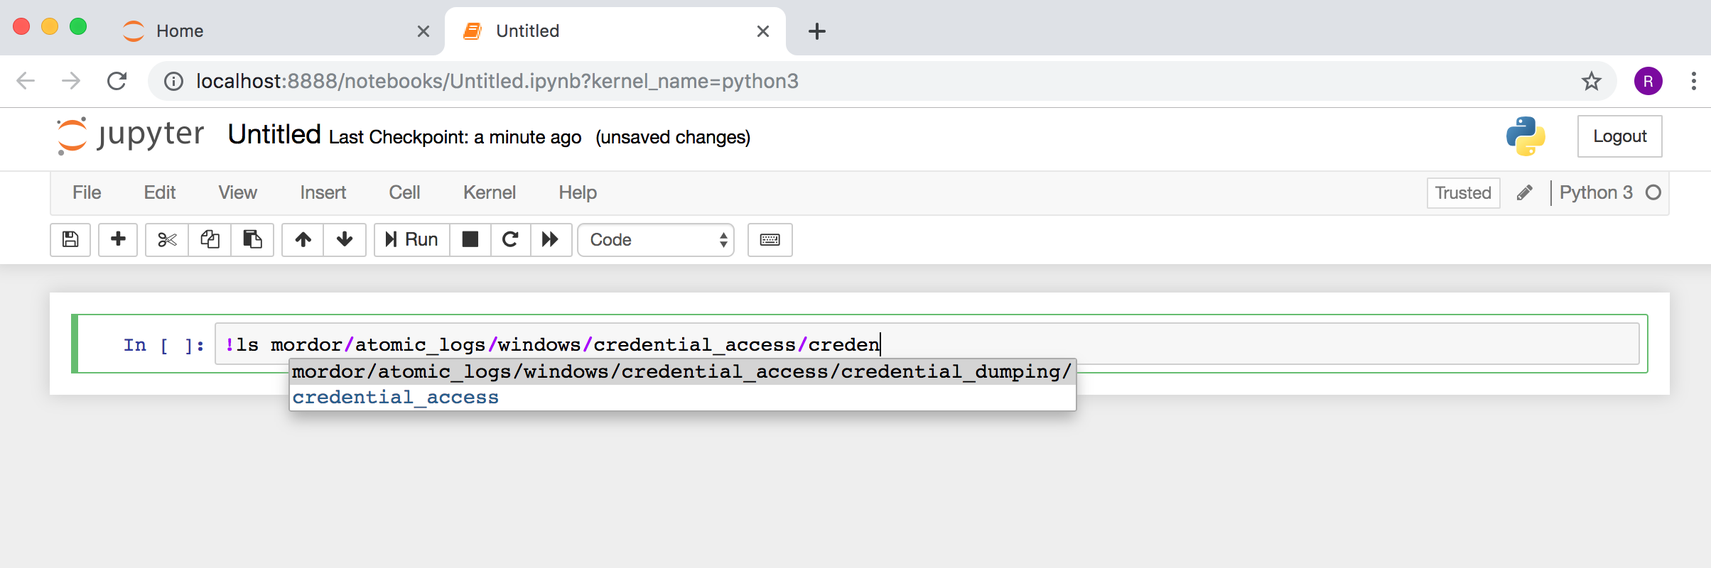
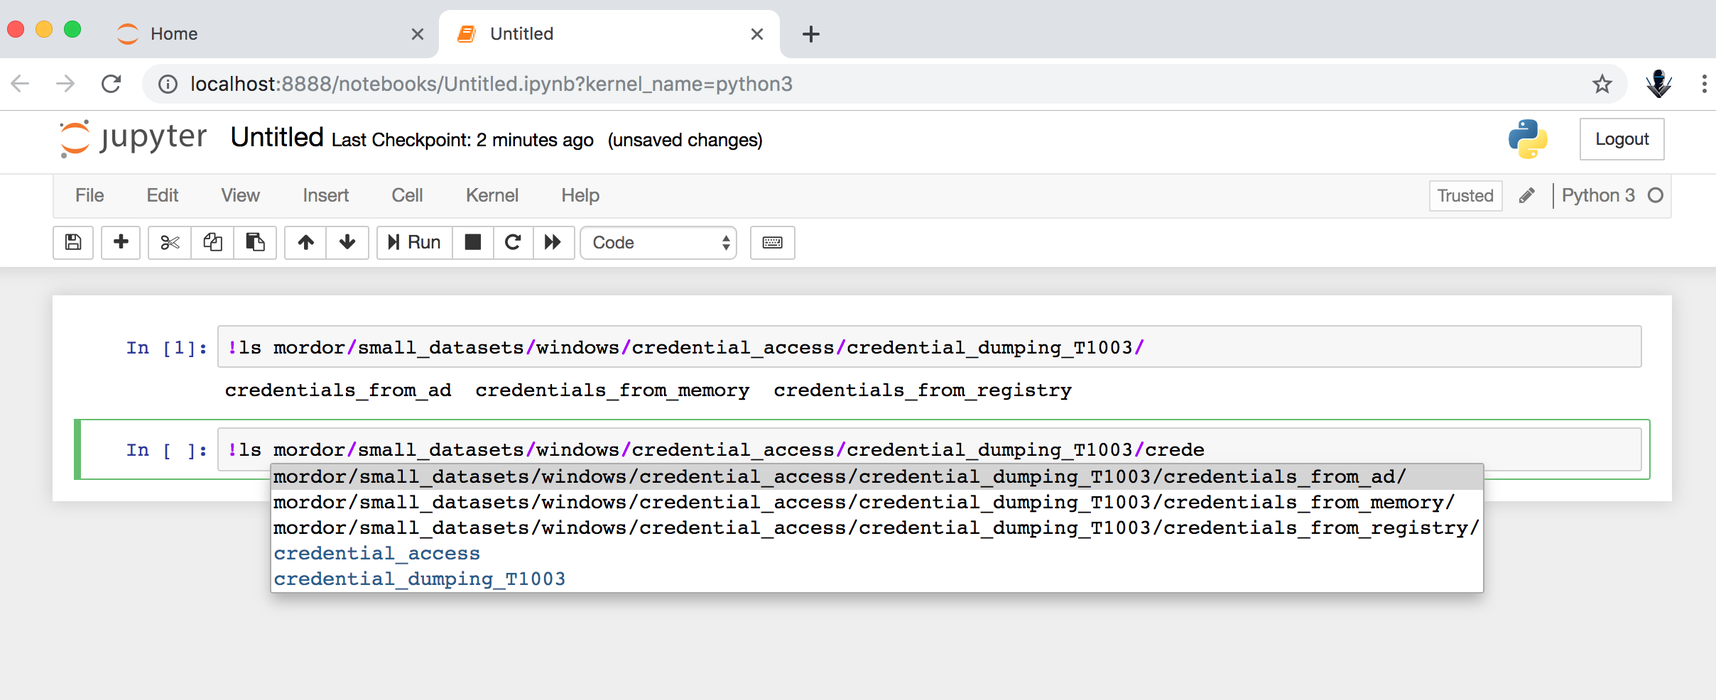
Redthedocs Update
Updating Images

Changed region(s): [[0.0, 0.0, 1.0, 0.875]]

diff --git a/docs/build/html/searchindex.js b/docs/build/html/searchindex.js
@@ -1,1 +1,1 @@
-Search.setIndex({docnames:["consume_mordor","index","license","network_config","network_design"],envversion:{"sphinx.domains.c":1,"sphinx.domains.changeset":1,"sphinx.domains.cpp":1,"sphinx.domains.javascript":1,"sphinx.domains.math":2,"sphinx.domains.python":1,"sphinx.domains.rst":1,"sphinx.domains.std":1,"sphinx.ext.viewcode":1,sphinx:55},filenames:["consume_mordor.rst","index.rst","license.rst","network_config.rst","network_design.rst"],objects:{},objnames:{},objtypes:{},terms:{"00c04fc2dcd2":0,"0facbeda640c":0,"1131f6aa":0,"1131f6ad":0,"11d1":0,"2e83a98485eb":0,"444d":0,"4c62":0,"6gb":0,"89e95b76":0,"90311c8670ed2bd71f7d9e8378fdc39711ef65a0b3ed6296":0,"991a":0,"9c07":0,"case":[1,2],"class":2,"default":0,"final":2,"function":2,"import":2,"long":2,"new":[0,2],"public":[1,2],"return":2,"short":2,"void":2,AND:[0,2],And:2,BEING:2,BUT:2,But:2,FOR:2,For:2,HAS:2,MBs:0,NOT:[0,2],Not:2,SUCH:2,Such:2,THE:[0,2],THERE:2,The:[0,1,2,4],These:2,USE:2,Use:[0,2],WILL:2,WITH:2,abil:2,about:[1,2],abov:[0,2],absenc:2,absolut:2,abus:2,accept:2,access:[0,2],accompani:2,accord:2,account:0,acct001:4,achiev:2,acknowledg:2,acquir:2,across:[1,2],act:0,action:2,activ:[1,2,4],actual:2,actviti:0,adapt:2,add:2,added:2,addit:[1,2],address:[2,4],administr:4,adopt:2,advers:2,adversari:[1,4],advis:2,affect:2,affero:2,affirm:2,afford:1,after:2,against:2,aggreg:2,agre:2,agreement:2,aim:2,all:[0,2],alleg:2,allow:[0,1,2],along:2,alpha02262019:0,alreadi:2,also:2,altern:2,although:2,among:2,analysi:0,analyst:1,analyt:1,analyz:0,ancillari:2,ani:2,anti:2,anyon:2,anyth:2,apach:0,app:0,appli:2,applic:[0,2],appropri:2,approxim:2,area:2,aris:2,around:1,arrang:2,articl:2,ask:2,assert:2,asset:2,associ:2,assum:2,assumpt:2,assur:2,atomic_log:0,att:1,attach:2,attack:[],attempt:2,attribut:2,audit:[],author:[0,2],auto:0,automat:2,avail:[0,2],avoid:2,awai:2,awesom:1,bad:1,base:[0,2],base_url:0,basic:[0,2],becaus:2,been:2,beer:[],behalf:2,being:[0,2],believ:2,below:2,benefit:2,best:2,between:2,beyond:2,bodi:2,book:1,both:2,box:[0,2],brief:2,broker:0,brows:0,browser:0,build:0,busi:2,call:2,can:[0,1,2],cannot:2,captur:1,carri:2,categor:1,caus:2,ceas:2,certain:2,cessat:2,chang:2,character:2,charg:2,check:0,choic:0,choos:[0,2],circumst:2,circumvent:2,civil:2,claim:2,clear:2,clearli:2,client:4,clone:0,close:2,code:[0,2],collect:[1,2],collector:4,colllect:4,com:0,combin:2,come:[1,2,4],command:[0,2],commerci:2,commit:2,common:2,commun:[0,2],compil:2,complet:0,compli:2,complianc:2,compon:2,compos:0,comput:2,concern:2,conda:0,condit:2,configur:1,confirm:0,connect:2,consequ:2,consequenti:2,consid:2,consist:2,conspicu:2,constantli:2,constitut:2,constru:2,consum:2,consumpt:1,contact:2,contain:[0,2],content:2,context:[1,2],continu:2,contractu:2,contradict:2,contrast:2,contribut:1,contributor:2,control:[0,2],convei:2,conveni:[0,2],convey:2,cooki:0,copi:[0,2],copyleft:2,copyright:2,correct:2,correl:1,correspond:2,cost:2,could:[0,2],counterclaim:2,countri:2,cours:2,court:2,coven:2,cover:2,coverag:2,creat:0,creativ:1,credential_access:0,credential_dump:0,criterion:2,cross:2,ctf:1,cure:2,current:0,custom:2,customarili:2,cyb3rward0g:0,dai:2,damag:2,danger:2,data:[1,2],dataset:1,date:2,dcsync:0,decemb:2,decid:2,declin:2,decompress:0,deem:2,defect:2,defens:2,defin:[0,1,2],definit:2,delimit:0,deni:2,denomin:2,deploi:[],depriv:2,design:[0,1,2],detail:2,detect:1,determin:2,develop:[0,1,2],devic:[1,2],differ:2,dir:0,direct:2,directli:[0,2],directori:0,disclaim:2,discov:0,discriminatori:2,displai:2,distinguish:2,distribut:[0,2],divers:1,docker:0,document:[0,2],doe:2,domain:[0,2],done:1,doubt:2,down:0,download:0,downstream:2,durabl:[0,2],dwell:2,dynam:2,each:[1,2],earlier:2,easi:1,easier:1,edenhil:[],edit:0,effect:2,effici:0,effort:2,either:2,elast:0,elastalert:0,elasticsearch:0,electron:2,elk:0,embodi:2,empire_dcsync:0,empire_dcsync_2019:0,employ:2,enabl:[1,2],end:2,endpoint:[],enforc:2,enhanc:1,enough:0,ensur:2,enter:[0,2],entir:2,entiti:2,env:0,environ:[1,4],equat:0,equival:2,erron:2,essenti:[2,4],even:[0,2],event:[1,2],event_id:0,ever:2,everi:2,everyon:2,evil:1,exact:2,exampl:[0,2],except:2,exclud:2,exclus:2,excus:2,execut:2,exercis:[1,2],expect:2,expedit:1,experi:0,explain:2,explicitli:2,explor:0,express:2,expressli:2,extend:2,extens:[0,2],extent:2,f79f:0,facil:2,facilit:1,fail:2,failur:2,fair:2,fals:1,famili:2,fashion:2,fast:0,fault:0,favor:2,favori:0,featur:2,fee:2,feel:0,file:[0,1,2],film:1,film_seri:[],find:2,first:2,fit:2,fix:2,flag:[0,1],flow:2,folder:0,follow:[0,2],forbid:2,forc:[1,2],form:[1,2],format:2,found:2,foundat:2,framework:1,free:[1,2],freedom:2,from:[0,1,2,4],fsf:2,fulfil:2,full:2,fundament:2,further:2,futur:2,gener:[0,1,2],get:[0,1,2],git:0,github:0,give:2,given:2,gnu:[1,2],going:0,govern:2,gpl:[0,2],grab:0,grant:2,grati:2,greatest:2,grep:0,group:1,guarante:2,gui:2,had:2,has:2,have:[0,1,2],helk:[0,4],helk_instal:0,henc:1,here:0,hereaft:2,hfdc1:4,hfdc:[],hit:0,holder:2,home:0,hope:2,host:[0,2],household:2,how:2,howev:[0,2],hr001:4,html:[0,2],htpasswd:0,http:[0,2],hunt:[0,1],hunter:1,hypothet:2,idea:2,ideal:0,identifi:2,implement:2,impli:2,impos:2,improv:1,inabl:2,inaccur:2,inc:2,incident:2,includ:2,inclus:2,incompat:2,incorpor:2,indemnif:2,independ:2,index:[],indic:2,individu:2,industri:2,info:0,inform:[0,2,4],infring:2,ingest:[0,1],initi:[1,2],insid:2,instal:[0,2],instead:2,instruct:0,intact:2,intend:2,intent:2,interact:2,interchang:2,interest:2,interf:2,interfac:[0,2],interpret:2,intim:2,invalid:2,irrevoc:2,it001:4,item:2,its:2,itself:2,javascript:1,json:[0,1],june:2,jupyt:1,jupyter_typ:0,jupyterlab:0,just:0,jvm:0,kafcakat:0,kafka:[0,1],kafkacat:1,kali:4,keep:2,kei:2,kernel:[0,2],kibana:0,kind:2,know:2,knowingli:2,knowledg:2,known:1,ksql:0,lab:0,label:1,lake:0,languag:2,larger:2,later:2,law:2,lawsuit:2,learn:1,least:2,legal:2,lesser:2,let:0,lgpl:2,liabil:2,liabl:2,lib:0,librari:[0,2],licens:[0,1],license:2,licensor:2,like:[0,2],likewis:2,limit:2,line:2,link:2,linux:[0,4],list:2,litig:2,live:[0,1],load:0,local:[0,2],log:4,logstash:0,look:0,lord:1,loss:2,lrodriguez:4,machin:2,maco:4,made:2,mai:2,mail:2,main:[0,4],main_pag:[],maintain:2,major:2,make:[0,2],malici:1,manner:2,manufactur:2,map:1,march:2,mark:2,mask:2,materi:2,max_map_count:0,mean:2,measur:2,medium:2,meet:2,memori:0,menu:2,merchant:2,mere:2,merg:2,messag:0,met:2,method:2,microsoft:[],might:2,misrepresent:2,mitr:1,mode:[0,2],model:2,modif:2,modifi:2,modul:[],mordor:4,more:[0,1,2],moreov:2,most:2,mount:0,multi:0,must:2,name:[0,1,2,4],narr:0,natur:2,nbserver:0,necessari:2,need:2,neither:2,netcat:0,network:[1,2],next:2,ngnix:0,nnmartha:4,nnorah:[],non:[0,2],noncommerci:2,nor:2,normal:2,notat:1,notebook:1,notebook_cookie_secret:0,notebookapp:0,noth:2,notic:2,notifi:2,notwithstand:2,now:0,number:[1,2],object:[1,2],object_properti:0,oblig:2,occasion:2,occur:[1,2],offer:2,offici:[0,2],one:[0,2],onli:[0,1,2],open:0,oper:2,opt:0,option:[0,2],order:2,org:2,organ:2,origin:2,other:[0,2],otherwis:2,our:2,out:2,output:[0,1,2],outsid:2,own:[0,1,2],packag:[0,2],page:[],panda:0,paper:2,paragraph:2,paramet:0,part:2,parti:2,particular:2,pass:2,password:[0,2],past:0,patent:2,pattern:2,payment:2,peer:2,perform:2,perman:2,permiss:2,permit:2,perpetu:2,person:2,pertin:2,pgustavo:4,philosophi:2,physic:2,pick:0,piec:2,pipelin:0,place:[1,2],plai:0,platform:[1,4],playbook:1,pleas:2,plu:2,pointer:2,port:0,portabl:1,portion:2,posit:1,possess:2,possibl:2,potenti:[0,1],power:2,practic:2,pre:[0,1],preambl:2,precis:2,predecessor:2,prefer:2,present:2,preserv:2,prevent:2,previou:2,price:2,primarili:2,prior:2,privat:2,problem:2,procedur:2,procur:2,produc:[0,2],product:2,program:2,programm:2,prohibit:2,project:[0,1],promin:2,propag:2,properti:2,proprietari:2,protect:2,protocol:2,prove:2,provid:[0,1,2],provis:2,provision:2,proxi:2,publicli:2,publish:[0,2],purpos:[1,2,4],pursuant:2,pwd:0,python3:0,python:0,qualifi:2,qualiti:2,queri:0,ram:0,read:[0,2],readabl:2,readi:[0,2],readili:2,real:[0,1],reason:2,receipt:2,receiv:2,recipi:2,recogn:2,record:[0,1],red:[1,4],redistribut:2,reduc:1,refer:2,refrain:2,regard:2,regardless:2,regener:2,reinstat:2,relationship:2,releas:2,relev:2,reli:2,relicens:2,remain:2,remov:2,render:2,repair:2,replic:4,repo:0,repositori:1,repres:[1,2],requir:2,research:1,resolv:2,respect:[1,2],respons:2,restrict:2,result:2,retain:2,review:2,revis:2,right:2,ring:1,risk:2,roberto:0,rodriguez:0,rom:2,root:[],royalti:2,rule:2,run:[0,2],runtim:0,safest:2,sai:2,sake:2,sale:2,same:2,sampl:1,satisfi:2,sauron:1,scalabl:0,school:2,scientist:1,scope:2,script:[0,2],search:[],secondarili:2,secret:0,section:[1,2],secur:1,see:2,sell:2,semi:1,semiconductor:2,send:0,separ:[0,2],seri:1,serv:[0,2],server:[0,2],servic:2,set:0,shall:2,share:[0,2],shire:[],should:2,show:2,shut:0,siem:0,sign:2,signific:2,similar:2,simpli:0,simul:[0,1],simultan:2,singl:2,sire:[],site:0,skill:1,skip:0,small:[0,4],softwar:2,sold:2,sole:2,some:[0,2],soon:4,sourc:[0,1,2],sourcess:1,spare:2,spark:0,speak:2,special:2,specif:[0,1,2],specifi:2,spirit:2,stack:0,stand:2,standard:2,start:[0,1,2],start_log:[],state:2,statement:2,statu:2,stdin:0,step:2,stop:0,storag:2,strategi:1,style:1,sub:1,subdivid:2,subject:2,sublicens:2,subprogram:2,subroutin:2,subscrib:0,subscript:0,subsect:2,substanti:2,sudo:0,sue:2,suffic:2,supplement:2,support:2,sure:[0,2],surrend:2,surviv:2,sustain:2,sysmon:[],system:[0,2],systemat:2,tab:0,tactic:1,take:2,taken:0,tangibl:2,tar:0,team:[0,1,4],techniqu:[0,1],technolog:[1,2],tell:2,term:2,termin:2,test:1,text:0,than:2,the_lord_of_the_rings_:[],thei:2,them:2,therefor:2,thi:[0,1,2],thing:2,think:0,third:2,those:2,though:2,threat:1,threaten:2,three:2,through:[0,2],thu:2,time:[0,2],token:0,toler:0,too:2,tool:[0,2],toolkit:[],topic:0,trade:2,trademark:2,train:1,transact:2,transfer:2,transmiss:2,treat:2,treati:2,tree:0,trial:0,twice:0,two:2,type:[0,2],typic:2,ubuntu:0,unaccept:2,under:2,unless:2,unlimit:2,unmodifi:2,unnecessari:2,unpack:2,until:2,updat:2,url:0,use:[1,2],used:2,useful:2,user:[2,4],user_nam:0,uses:2,using:[0,2],valid:[1,2],valu:0,variabl:0,verbatim:2,veri:4,verifi:0,version:[0,2,4],via:0,view:[0,2],violat:2,visibl:2,visual:0,volum:2,wai:[0,1,2],waiv:2,waiver:2,want:[0,2],wardog:4,warranti:2,web:0,wec:[],wecserv:4,wef:[],welcom:2,well:2,were:2,wevserv:[],what:2,whatev:2,when:2,where:[1,2],whether:2,which:2,who:2,whole:2,whom:2,whose:2,why:2,wide:2,wiki:[],wikipedia:[],win:4,window:[0,2,4],winlogbeat:0,wipo:2,wish:2,within:2,without:2,work:[0,2],worldwid:2,would:2,write:[0,2],written:2,www:2,xenial:0,xml:[],xzvf:0,year:2,yml:0,you:[0,1,2],your:[0,1,2],yourself:2},titles:["Consume Mordor Data","Mordor documentation","Licenses","Network Configuration","Network Design"],titleterms:{collect:3,configur:3,consum:0,data:[0,3],design:4,devic:4,document:1,goal:1,indic:[],jupyt:0,kafkacat:0,licens:2,log:0,mordor:[0,1],network:[3,4],notebook:0,requir:0,style:0,tabl:[]}})
+Search.setIndex({docnames:["consume_mordor","index","license","network_config","network_design"],envversion:{"sphinx.domains.c":1,"sphinx.domains.changeset":1,"sphinx.domains.cpp":1,"sphinx.domains.javascript":1,"sphinx.domains.math":2,"sphinx.domains.python":1,"sphinx.domains.rst":1,"sphinx.domains.std":1,"sphinx.ext.viewcode":1,sphinx:55},filenames:["consume_mordor.rst","index.rst","license.rst","network_config.rst","network_design.rst"],objects:{},objnames:{},objtypes:{},terms:{"00c04fc2dcd2":0,"0facbeda640c":0,"1131f6aa":0,"1131f6ad":0,"11d1":0,"2e83a98485eb":0,"444d":0,"4c62":0,"6gb":0,"89e95b76":0,"90311c8670ed2bd71f7d9e8378fdc39711ef65a0b3ed6296":0,"991a":0,"9c07":0,"case":[1,2],"class":2,"default":0,"final":2,"function":2,"import":2,"long":2,"new":[0,2],"public":[1,2],"return":2,"short":2,"void":2,AND:[0,2],And:2,BEING:2,BUT:2,But:2,FOR:2,For:2,HAS:2,MBs:0,NOT:[0,2],Not:2,SUCH:2,Such:2,THE:[0,2],THERE:2,The:[0,1,2,4],These:2,USE:2,Use:[0,2],WILL:2,WITH:2,abil:2,about:[1,2],abov:[0,2],absenc:2,absolut:2,abus:2,accept:2,access:[0,2],accompani:2,accord:2,account:0,acct001:4,achiev:2,acknowledg:2,acquir:2,across:[1,2],act:0,action:2,activ:[1,2,4],actual:2,actviti:0,adapt:2,add:2,added:2,addit:[1,2],address:[2,4],administr:4,adopt:2,advers:2,adversari:[1,4],advis:2,affect:2,affero:2,affirm:2,afford:1,after:2,against:2,aggreg:2,agre:2,agreement:2,aim:2,all:[0,2],alleg:2,allow:[0,1,2],along:2,alpha02262019:0,alreadi:2,also:2,altern:2,although:2,among:2,analysi:0,analyst:1,analyt:1,analyz:0,ancillari:2,ani:2,anti:2,anyon:2,anyth:2,apach:0,app:0,appli:2,applic:[0,2],appropri:2,approxim:2,area:2,aris:2,around:1,arrang:2,articl:2,ask:2,assert:2,asset:2,associ:2,assum:2,assumpt:2,assur:2,atomic_log:[],att:1,attach:2,attack:[],attempt:2,attribut:2,audit:[],author:[0,2],auto:0,automat:2,avail:[0,2],avoid:2,awai:2,awesom:1,bad:1,base:[0,2],base_url:0,basic:[0,2],becaus:2,been:2,beer:[],behalf:2,being:[0,2],believ:2,below:2,benefit:2,best:2,between:2,beyond:2,bodi:2,book:1,both:2,box:[0,2],brief:2,broker:0,brows:0,browser:0,build:0,busi:2,call:2,can:[0,1,2],cannot:2,captur:1,carri:2,categor:1,caus:2,ceas:2,certain:2,cessat:2,chang:2,character:2,charg:2,check:0,choic:0,choos:[0,2],circumst:2,circumvent:2,civil:2,claim:2,clear:2,clearli:2,client:4,clone:0,close:2,code:[0,2],collect:[1,2],collector:4,colllect:4,com:0,combin:2,come:[1,2,4],command:[0,2],commerci:2,commit:2,common:2,commun:[0,2],compil:2,complet:0,compli:2,complianc:2,compon:2,compos:0,comput:2,concern:2,conda:0,condit:2,configur:1,confirm:0,connect:2,consequ:2,consequenti:2,consid:2,consist:2,conspicu:2,constantli:2,constitut:2,constru:2,consum:2,consumpt:1,contact:2,contain:[0,2],content:2,context:[1,2],continu:2,contractu:2,contradict:2,contrast:2,contribut:1,contributor:2,control:[0,2],convei:2,conveni:[0,2],convey:2,cooki:0,copi:[0,2],copyleft:2,copyright:2,correct:2,correl:1,correspond:2,cost:2,could:[0,2],counterclaim:2,countri:2,cours:2,court:2,coven:2,cover:2,coverag:2,creat:0,creativ:1,credential_access:0,credential_dump:[],credential_dumping_t1003:0,credentials_from_ad:0,criterion:2,cross:2,ctf:1,cure:2,current:0,custom:2,customarili:2,cyb3rward0g:0,dai:2,damag:2,danger:2,data:[1,2],dataset:1,date:2,dcsync:0,decemb:2,decid:2,declin:2,decompress:0,deem:2,defect:2,defens:2,defin:[0,1,2],definit:2,delimit:0,deni:2,denomin:2,deploi:[],depriv:2,design:[0,1,2],detail:2,detect:1,determin:2,develop:[0,1,2],devic:[1,2],differ:2,dir:0,direct:2,directli:[0,2],directori:0,disclaim:2,discov:0,discriminatori:2,displai:2,distinguish:2,distribut:[0,2],divers:1,docker:0,document:[0,2],doe:2,domain:[0,2],done:1,doubt:2,down:0,download:0,downstream:2,durabl:[0,2],dwell:2,dynam:2,each:[1,2],earlier:2,easi:1,easier:1,edenhil:[],edit:0,effect:2,effici:0,effort:2,either:2,elast:0,elastalert:0,elasticsearch:0,electron:2,elk:0,embodi:2,empire_dcsync:0,empire_dcsync_2019:0,employ:2,enabl:[1,2],end:2,endpoint:[],enforc:2,enhanc:1,enough:0,ensur:2,enter:[0,2],entir:2,entiti:2,env:0,environ:[1,4],equat:0,equival:2,erron:2,essenti:[2,4],even:[0,2],event:[1,2],event_id:0,ever:2,everi:2,everyon:2,evil:1,exact:2,exampl:[0,2],except:2,exclud:2,exclus:2,excus:2,execut:2,exercis:[1,2],expect:2,expedit:1,experi:0,explain:2,explicitli:2,explor:0,express:2,expressli:2,extend:2,extens:[0,2],extent:2,f79f:0,facil:2,facilit:1,fail:2,failur:2,fair:2,fals:1,famili:2,fashion:2,fast:0,fault:0,favor:2,favori:0,featur:2,fee:2,feel:0,file:[0,1,2],film:1,film_seri:[],find:2,first:2,fit:2,fix:2,flag:[0,1],flow:2,folder:0,follow:[0,2],forbid:2,forc:[1,2],form:[1,2],format:2,found:2,foundat:2,framework:1,free:[1,2],freedom:2,from:[0,1,2,4],fsf:2,fulfil:2,full:2,fundament:2,further:2,futur:2,gener:[0,1,2],get:[0,1,2],git:0,github:0,give:2,given:2,gnu:[1,2],going:0,govern:2,gpl:[0,2],grab:0,grant:2,grati:2,greatest:2,grep:0,group:1,guarante:2,gui:2,had:2,has:2,have:[0,1,2],helk:[0,4],helk_instal:0,henc:1,here:0,hereaft:2,hfdc1:4,hfdc:[],hit:0,holder:2,home:0,hope:2,host:[0,2],household:2,how:2,howev:[0,2],hr001:4,html:[0,2],htpasswd:0,http:[0,2],hunt:[0,1],hunter:1,hypothet:2,idea:2,ideal:0,identifi:2,implement:2,impli:2,impos:2,improv:1,inabl:2,inaccur:2,inc:2,incident:2,includ:2,inclus:2,incompat:2,incorpor:2,indemnif:2,independ:2,index:[],indic:2,individu:2,industri:2,info:0,inform:[0,2,4],infring:2,ingest:[0,1],initi:[1,2],insid:2,instal:[0,2],instead:2,instruct:0,intact:2,intend:2,intent:2,interact:2,interchang:2,interest:2,interf:2,interfac:[0,2],interpret:2,intim:2,invalid:2,irrevoc:2,it001:4,item:2,its:2,itself:2,javascript:1,json:[0,1],june:2,jupyt:1,jupyter_typ:0,jupyterlab:0,just:0,jvm:0,kafcakat:0,kafka:[0,1],kafkacat:1,kali:4,keep:2,kei:2,kernel:[0,2],kibana:0,kind:2,know:2,knowingli:2,knowledg:2,known:1,ksql:0,lab:0,label:1,lake:0,languag:2,larger:2,later:2,law:2,lawsuit:2,learn:1,least:2,legal:2,lesser:2,let:0,lgpl:2,liabil:2,liabl:2,lib:0,librari:[0,2],licens:[0,1],license:2,licensor:2,like:[0,2],likewis:2,limit:2,line:2,link:2,linux:[0,4],list:2,litig:2,live:[0,1],load:0,local:[0,2],log:4,logstash:0,look:0,lord:1,loss:2,lrodriguez:4,machin:2,maco:4,made:2,mai:2,mail:2,main:[0,4],main_pag:[],maintain:2,major:2,make:[0,2],malici:1,manner:2,manufactur:2,map:1,march:2,mark:2,mask:2,materi:2,max_map_count:0,mean:2,measur:2,medium:2,meet:2,memori:0,menu:2,merchant:2,mere:2,merg:2,messag:0,met:2,method:2,microsoft:[],might:2,misrepresent:2,mitr:1,mode:[0,2],model:2,modif:2,modifi:2,modul:[],mordor:4,more:[0,1,2],moreov:2,most:2,mount:0,multi:0,must:2,name:[0,1,2,4],narr:0,natur:2,nbserver:0,necessari:2,need:2,neither:2,netcat:0,network:[1,2],next:2,ngnix:0,nnmartha:4,nnorah:[],non:[0,2],noncommerci:2,nor:2,normal:2,notat:1,notebook:1,notebook_cookie_secret:0,notebookapp:0,noth:2,notic:2,notifi:2,notwithstand:2,now:0,number:[1,2],object:[1,2],object_properti:0,oblig:2,occasion:2,occur:[1,2],offer:2,offici:[0,2],one:[0,2],onli:[0,1,2],open:0,oper:2,opt:0,option:[0,2],order:2,org:2,organ:2,origin:2,other:[0,2],otherwis:2,our:2,out:2,output:[0,1,2],outsid:2,own:[0,1,2],packag:[0,2],page:[],panda:0,paper:2,paragraph:2,paramet:0,part:2,parti:2,particular:2,pass:2,password:[0,2],past:0,patent:2,pattern:2,payment:2,peer:2,perform:2,perman:2,permiss:2,permit:2,perpetu:2,person:2,pertin:2,pgustavo:4,philosophi:2,physic:2,pick:0,piec:2,pipelin:0,place:[1,2],plai:0,platform:[1,4],playbook:1,pleas:2,plu:2,pointer:2,port:0,portabl:1,portion:2,posit:1,possess:2,possibl:2,potenti:[0,1],power:2,practic:2,pre:[0,1],preambl:2,precis:2,predecessor:2,prefer:2,present:2,preserv:2,prevent:2,previou:2,price:2,primarili:2,prior:2,privat:2,problem:2,procedur:2,procur:2,produc:[0,2],product:2,program:2,programm:2,prohibit:2,project:[0,1],promin:2,propag:2,properti:2,proprietari:2,protect:2,protocol:2,prove:2,provid:[0,1,2],provis:2,provision:2,proxi:2,publicli:2,publish:[0,2],purpos:[1,2,4],pursuant:2,pwd:0,python3:0,python:0,qualifi:2,qualiti:2,queri:0,ram:0,read:[0,2],readabl:2,readi:[0,2],readili:2,real:[0,1],reason:2,receipt:2,receiv:2,recipi:2,recogn:2,record:[0,1],red:[1,4],redistribut:2,reduc:1,refer:2,refrain:2,regard:2,regardless:2,regener:2,reinstat:2,relationship:2,releas:2,relev:2,reli:2,relicens:2,remain:2,remov:2,render:2,repair:2,replic:4,repo:0,repositori:1,repres:[1,2],requir:2,research:1,resolv:2,respect:[1,2],respons:2,restrict:2,result:2,retain:2,review:2,revis:2,right:2,ring:1,risk:2,roberto:0,rodriguez:0,rom:2,root:[],royalti:2,rule:2,run:[0,2],runtim:0,safest:2,sai:2,sake:2,sale:2,same:2,sampl:1,satisfi:2,sauron:1,scalabl:0,school:2,scientist:1,scope:2,script:[0,2],search:[],secondarili:2,secret:0,section:[1,2],secur:1,see:2,sell:2,semi:1,semiconductor:2,send:0,separ:[0,2],seri:1,serv:[0,2],server:[0,2],servic:2,set:0,shall:2,share:[0,2],shire:[],should:2,show:2,shut:0,siem:0,sign:2,signific:2,similar:2,simpli:0,simul:[0,1],simultan:2,singl:2,sire:[],site:0,skill:1,skip:0,small:[0,4],small_dataset:0,softwar:2,sold:2,sole:2,some:[0,2],soon:4,sourc:[0,1,2],sourcess:1,spare:2,spark:0,speak:2,special:2,specif:[0,1,2],specifi:2,spirit:2,stack:0,stand:2,standard:2,start:[0,1,2],start_log:[],state:2,statement:2,statu:2,stdin:0,step:2,stop:0,storag:2,strategi:1,style:1,sub:1,subdivid:2,subject:2,sublicens:2,subprogram:2,subroutin:2,subscrib:0,subscript:0,subsect:2,substanti:2,sudo:0,sue:2,suffic:2,supplement:2,support:2,sure:[0,2],surrend:2,surviv:2,sustain:2,sysmon:[],system:[0,2],systemat:2,tab:0,tactic:1,take:2,taken:0,tangibl:2,tar:0,team:[0,1,4],techniqu:[0,1],technolog:[1,2],tell:2,term:2,termin:2,test:1,text:0,than:2,the_lord_of_the_rings_:[],thei:2,them:2,therefor:2,thi:[0,1,2],thing:2,think:0,third:2,those:2,though:2,threat:1,threaten:2,three:2,through:[0,2],thu:2,time:[0,2],token:0,toler:0,too:2,tool:[0,2],toolkit:[],topic:0,trade:2,trademark:2,train:1,transact:2,transfer:2,transmiss:2,treat:2,treati:2,tree:0,trial:0,twice:0,two:2,type:[0,2],typic:2,ubuntu:0,unaccept:2,under:2,unless:2,unlimit:2,unmodifi:2,unnecessari:2,unpack:2,until:2,updat:2,url:0,use:[1,2],used:2,useful:2,user:[2,4],user_nam:0,uses:2,using:[0,2],valid:[1,2],valu:0,variabl:0,verbatim:2,veri:4,verifi:0,version:[0,2,4],via:0,view:[0,2],violat:2,visibl:2,visual:0,volum:2,wai:[0,1,2],waiv:2,waiver:2,want:[0,2],wardog:4,warranti:2,web:0,wec:[],wecserv:4,wef:[],welcom:2,well:2,were:2,wevserv:[],what:2,whatev:2,when:2,where:[1,2],whether:2,which:2,who:2,whole:2,whom:2,whose:2,why:2,wide:2,wiki:[],wikipedia:[],win:4,window:[0,2,4],winlogbeat:0,wipo:2,wish:2,within:2,without:2,work:[0,2],worldwid:2,would:2,write:[0,2],written:2,www:2,xenial:0,xml:[],xzvf:0,year:2,yml:0,you:[0,1,2],your:[0,1,2],yourself:2},titles:["Consume Mordor Data","Mordor documentation","Licenses","Network Configuration","Network Design"],titleterms:{collect:3,configur:3,consum:0,data:[0,3],design:4,devic:4,document:1,goal:1,indic:[],jupyt:0,kafkacat:0,licens:2,log:0,mordor:[0,1],network:[3,4],notebook:0,requir:0,style:0,tabl:[]}})

diff --git a/docs/build/html/consume_mordor.html b/docs/build/html/consume_mordor.html
@@ -35,8 +35,8 @@
   <link rel="stylesheet" href="_static/pygments.css" type="text/css" />
     <link rel="index" title="Index" href="genindex.html" />
     <link rel="search" title="Search" href="search.html" />
-    <link rel="next" title="Network Design" href="network_design.html" />
-    <link rel="prev" title="Mordor documentation" href="index.html" /> 
+    <link rel="next" title="Licenses" href="license.html" />
+    <link rel="prev" title="Network Configuration" href="network_config.html" /> 
 </head>
 
 <body class="wy-body-for-nav">
@@ -80,7 +80,12 @@
               
             
             
-              <p class="caption"><span class="caption-text">Getting Started:</span></p>
+              <p class="caption"><span class="caption-text">Mordor Environment:</span></p>
+<ul>
+<li class="toctree-l1"><a class="reference internal" href="network_design.html">Network Design</a></li>
+<li class="toctree-l1"><a class="reference internal" href="network_config.html">Network Configurations</a></li>
+</ul>
+<p class="caption"><span class="caption-text">Getting Started:</span></p>
 <ul class="current">
 <li class="toctree-l1 current"><a class="current reference internal" href="#">Mordor Data Consumption</a><ul>
 <li class="toctree-l2"><a class="reference internal" href="#kafkacat-style">Kafkacat Style</a><ul>
@@ -95,11 +100,6 @@
 </li>
 </ul>
 </li>
-</ul>
-<p class="caption"><span class="caption-text">Mordor Environment:</span></p>
-<ul>
-<li class="toctree-l1"><a class="reference internal" href="network_design.html">Network Design</a></li>
-<li class="toctree-l1"><a class="reference internal" href="network_config.html">Network Configurations</a></li>
 </ul>
 <p class="caption"><span class="caption-text">Licenses:</span></p>
 <ul>
@@ -234,7 +234,7 @@ You can run it with 5-6GB of RAM now (More information <a class="reference exter
 <p>Download the mordor repo and choose your technique:</p>
 <div class="highlight-console notranslate"><div class="highlight"><pre><span></span><span class="gp">$</span> <span class="nb">cd</span> ../../
 <span class="gp">$</span> git clone https://github.com/Cyb3rWard0g/mordor.git
-<span class="gp">$</span> <span class="nb">cd</span> mordor/atomic_logs/windows/credential_access/credential_dumping/dcsync
+<span class="gp">$</span> <span class="nb">cd</span> mordor/small_datasets/windows/credential_access/credential_dumping_T1003/credentials_from_ad/
 </pre></div>
 </div>
 <p>Decompress the specific mordor log file</p>
@@ -324,11 +324,11 @@ You can run it with 5-6GB of RAM now (More information <a class="reference exter
 <a class="reference internal image-reference" href="_images/jupyter-new-notebook.png"><img alt="Jupyter new notebook" src="_images/jupyter-new-notebook.png" style="width: 728.1px; height: 373.5px;" /></a>
 <p>You can go through the directory tree of the mordor project and even hit [TAB] for auto-completion to get to a specific technique</p>
 <p>Create a new notebook</p>
-<a class="reference internal image-reference" href="_images/jupyter-list-dir.png"><img alt="Jupyter list mordor files" src="_images/jupyter-list-dir.png" style="width: 842.8px; height: 280.0px;" /></a>
+<a class="reference internal image-reference" href="_images/jupyter-list-dir.png"><img alt="Jupyter list mordor files" src="_images/jupyter-list-dir.png" style="width: 724.8px; height: 295.8px;" /></a>
 <p>Decompress the mordor file you want to work with. Let’s pick a dcsync example.</p>
-<a class="reference internal image-reference" href="_images/jupyter-decompress-file.png"><img alt="Jupyter decompress file" src="_images/jupyter-decompress-file.png" style="width: 842.0999999999999px; height: 322.7px;" /></a>
+<a class="reference internal image-reference" href="_images/jupyter-decompress-file.png"><img alt="Jupyter decompress file" src="_images/jupyter-decompress-file.png" style="width: 712.1999999999999px; height: 322.2px;" /></a>
 <p>Use pandas to read the file. You are ready to start exploring and analyzing the data</p>
-<a class="reference internal image-reference" href="_images/jupyter-dcsync-logs.png"><img alt="Jupyter Pandas" src="_images/jupyter-dcsync-logs.png" style="width: 844.1999999999999px; height: 566.3px;" /></a>
+<a class="reference internal image-reference" href="_images/jupyter-dcsync-logs.png"><img alt="Jupyter Pandas" src="_images/jupyter-dcsync-logs.png" style="width: 714.0px; height: 478.2px;" /></a>
 </div>
 </div>
 </div>
@@ -341,10 +341,10 @@ You can run it with 5-6GB of RAM now (More information <a class="reference exter
   
     <div class="rst-footer-buttons" role="navigation" aria-label="footer navigation">
       
-        <a href="network_design.html" class="btn btn-neutral float-right" title="Network Design" accesskey="n" rel="next">Next <span class="fa fa-arrow-circle-right"></span></a>
+        <a href="license.html" class="btn btn-neutral float-right" title="Licenses" accesskey="n" rel="next">Next <span class="fa fa-arrow-circle-right"></span></a>
       
       
-        <a href="index.html" class="btn btn-neutral float-left" title="Mordor documentation" accesskey="p" rel="prev"><span class="fa fa-arrow-circle-left"></span> Previous</a>
+        <a href="network_config.html" class="btn btn-neutral float-left" title="Network Configuration" accesskey="p" rel="prev"><span class="fa fa-arrow-circle-left"></span> Previous</a>
       
     </div>
   

diff --git a/docs/source/consume_mordor.rst b/docs/source/consume_mordor.rst
@@ -82,7 +82,7 @@ Download the mordor repo and choose your technique:
 
     $ cd ../../
     $ git clone https://github.com/Cyb3rWard0g/mordor.git
-    $ cd mordor/atomic_logs/windows/credential_access/credential_dumping/dcsync
+    $ cd mordor/small_datasets/windows/credential_access/credential_dumping_T1003/credentials_from_ad/
 
 Decompress the specific mordor log file
 
@@ -197,16 +197,16 @@ Create a new notebook
 
 .. image:: _static/jupyter-list-dir.png
     :alt: Jupyter list mordor files
-    :scale: 35%
+    :scale: 30%
 
 Decompress the mordor file you want to work with. Let's pick a dcsync example.
 
 .. image:: _static/jupyter-decompress-file.png
     :alt: Jupyter decompress file
-    :scale: 35%
+    :scale: 30%
 
 Use pandas to read the file. You are ready to start exploring and analyzing the data
 
 .. image:: _static/jupyter-dcsync-logs.png
     :alt: Jupyter Pandas
-    :scale: 35%
+    :scale: 30%
